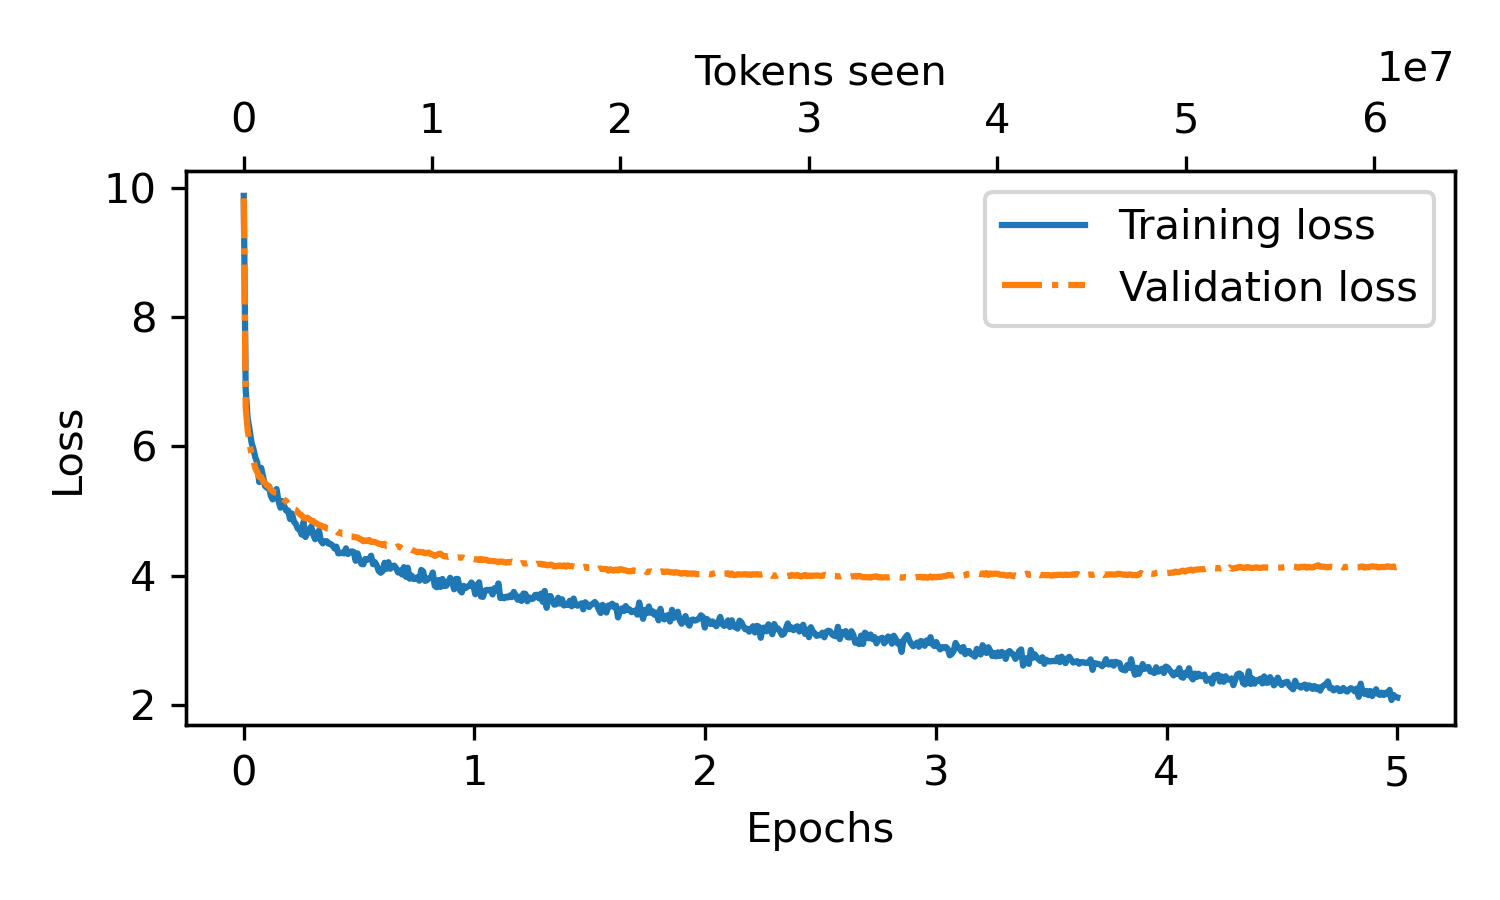
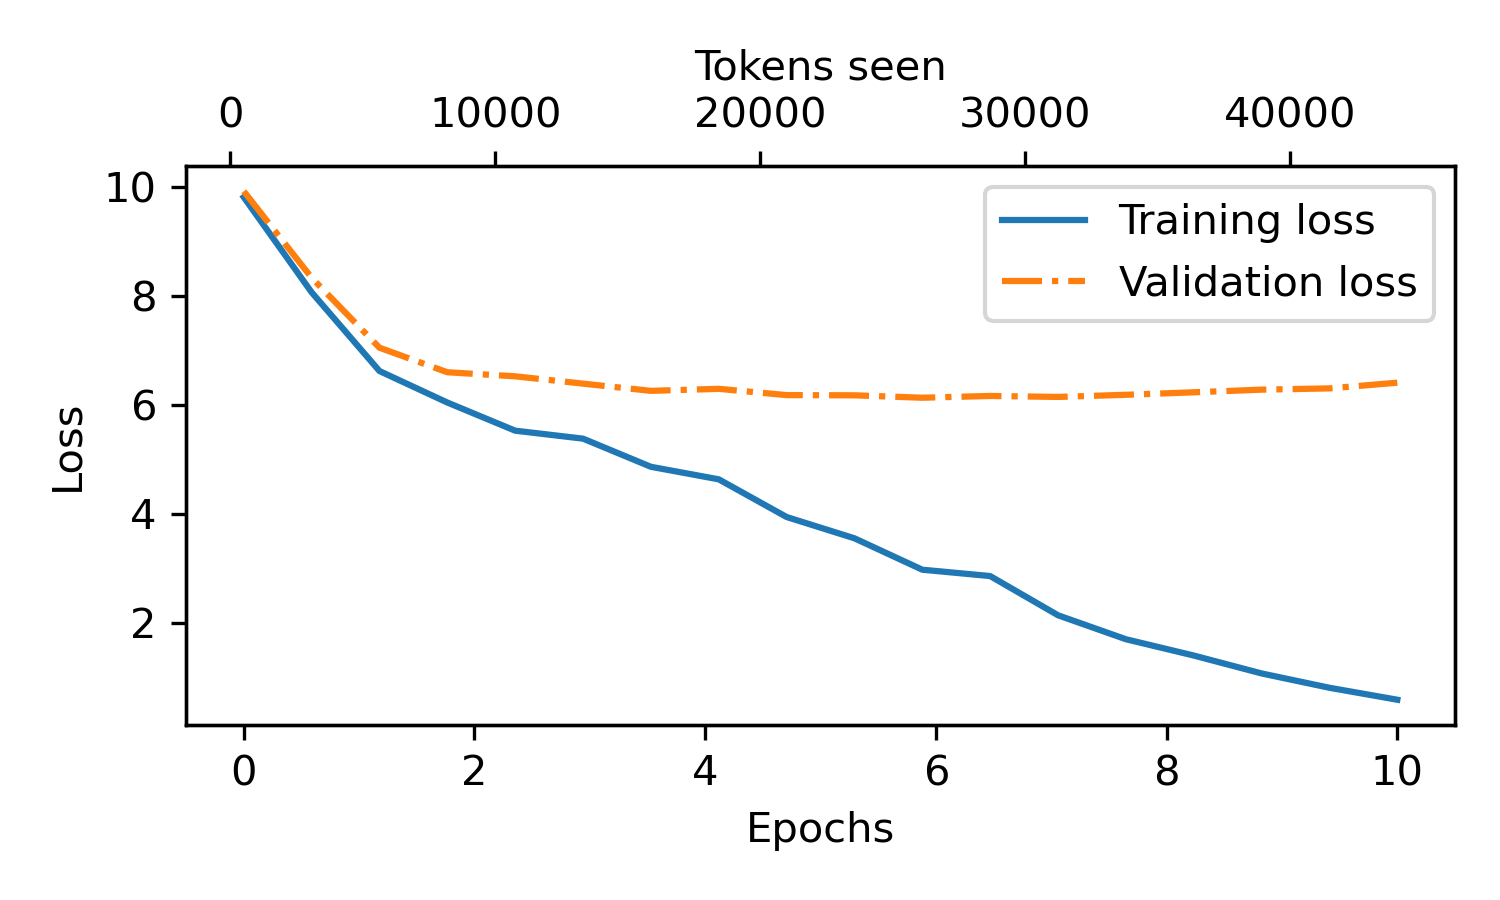
05-10

diff --git a/05/p05_10.py b/05/p05_10.py
@@ -1,11 +1,46 @@
-from p05_04 import GPTModel, generate_and_print_sample
+from p05_04 import GPTModel, generate_and_print_sample, text_to_token_ids, token_ids_to_text
 from p05_04 import GPT_CONFIG_124M
 
-# from gpt_download import download_and_load_gpt2
+
+
+from gpt_download import download_and_load_gpt2
 
 import torch
+import tiktoken
 import numpy as np
 from rich.console import Console
+
+# A text generation function with more diversity
+def generate(model, idx, max_new_tokens, context_size,
+             temperature=0.0, top_k=None, eos_id=None):
+    for _ in range(max_new_tokens):            #1
+        idx_cond = idx[:, -context_size:]
+        with torch.no_grad():
+            logits = model(idx_cond)
+        logits = logits[:, -1, :]
+        if top_k is not None:                #2
+            top_logits, _ = torch.topk(logits, top_k)
+            min_val = top_logits[:, -1]
+            logits = torch.where(
+                logits < min_val,
+                torch.tensor(float('-inf')).to(logits.device),
+                logits
+            )
+        if temperature > 0.0:                  #3
+            logits = logits / temperature
+            probs = torch.softmax(logits, dim=-1)
+            idx_next = torch.multinomial(probs, num_samples=1)
+        else:    #4
+            idx_next = torch.argmax(logits, dim=-1, keepdim=True)
+        if idx_next == eos_id:              #5
+            break
+        idx = torch.cat((idx, idx_next), dim=1)
+    return idx
+#1 The for loop is the same as before: gets logits and only focuses on the last time step.
+#2 Filters logits with top_k sampling
+#3 Applies temperature scaling
+#4 Carries out greedy next-token selection as before when temperature scaling is disabled
+#5 Stops generating early if end-of-sequence token is encountered
 
 # Utility function that checks whether two tensors or arrays (left and right) have the same dimensions or shape and returns the right tensor as trainable PyTorch parameters
 def assign(left, right):
@@ -99,6 +134,10 @@ NEW_CONFIG.update({"context_length": 1024})
 
 NEW_CONFIG.update({"qkv_bias": True})
 
+console = Console()
+console.print(f"\nTokenizer - Tiktoken GPT2", style="gold1")
+tokenizer = tiktoken.get_encoding("gpt2")
+
 # Descarga
 settings, params = download_and_load_gpt2(model_size="124M", models_dir="gpt2")
 
@@ -107,7 +146,6 @@ model.eval()
 
 # Set Up Processing Engine
 device = torch.device("cuda" if torch.cuda.is_available() else "cpu")
-console = Console()
 if torch.cuda.is_available():
     console.print(f"Loading model on GPU: {torch.cuda.get_device_name(0)}", style="bright_blue", highlight=False)
 else:
@@ -116,5 +154,14 @@ else:
 load_weights_into_gpt(model, params)
 model.to(device)
 
-
-print("Todo bien")
+# generate new text using our previous generate function:
+torch.manual_seed(123)
+token_ids = generate(
+    model=model,
+    idx=text_to_token_ids("Every effort moves you", tokenizer).to(device),
+    max_new_tokens=25,
+    context_size=NEW_CONFIG["context_length"],
+    top_k=50,
+    temperature=1.5
+)
+print("Output text:\n", token_ids_to_text(token_ids, tokenizer))